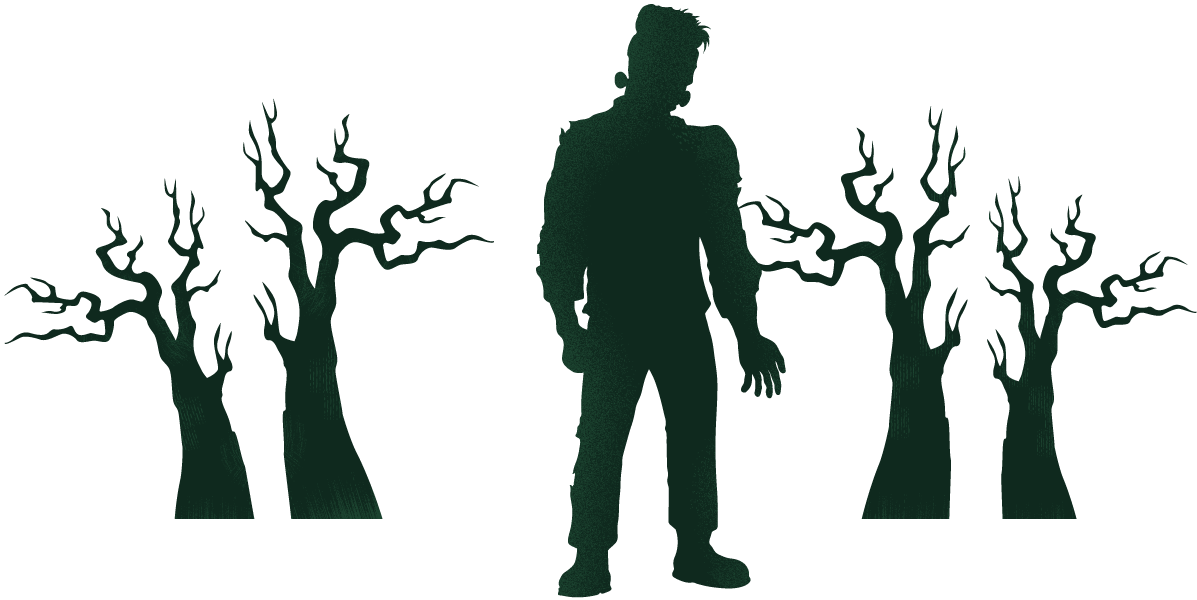
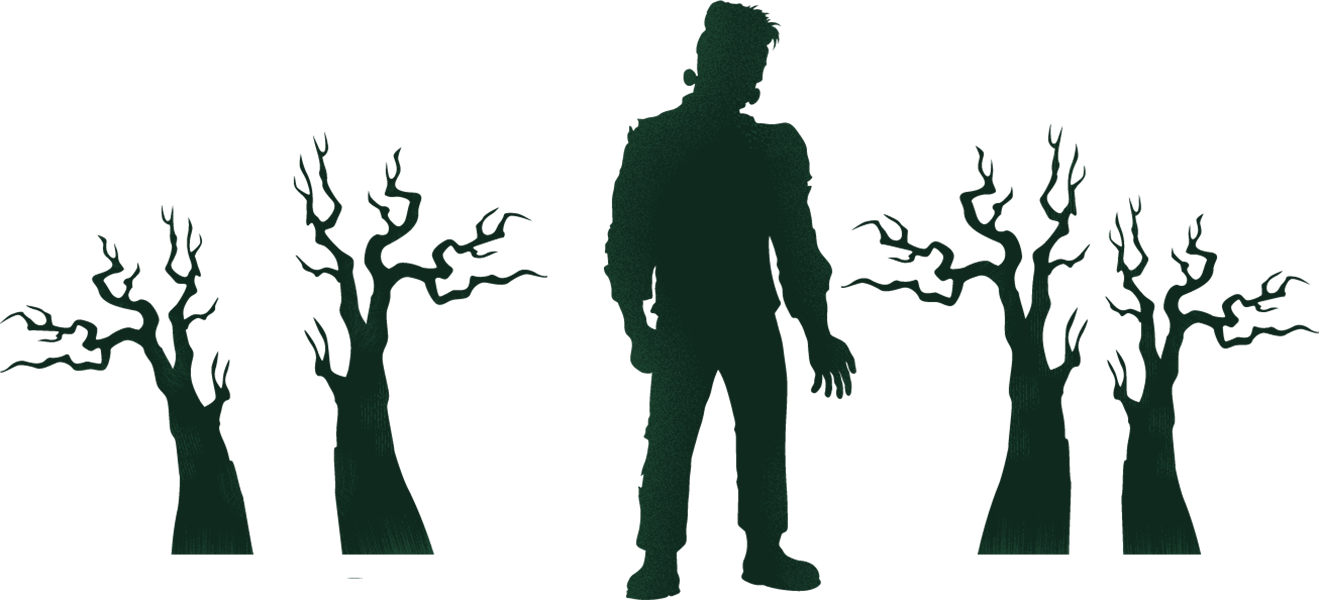
different texture

diff --git a/storybook-holiday/new.html b/storybook-holiday/new.html
@@ -148,14 +148,18 @@ h1.block-font {
 	border-bottom: 45px solid #0d8a7d;
 }
 .dark-row {
-	background: #010c0b url("dark-noise.png");
-	height: 95px;
+	background: #010c0b url("light-noise.png");
+	height: 200px;
 }
 .monster-row {
 	background: transparent url("monster.png") bottom center no-repeat;
-	height: 775px;
+	height: 740px;
 	position: relative;
 }
+	.bg-row {
+		background: #010a09;
+		height: 15px;
+	}
 .bottom-row {
     background: #754d29 url("bottom.jpg") top center repeat-x;
     padding: 35px 0 55px;
@@ -381,7 +385,7 @@ height="0" width="0" style="display:none;visibility:hidden"></iframe>
       <div class="script-heading-one">a storybook holiday</div>
       <h1 class="block-font">Frankenstein's</h1>
       <div><span class="block-font date">October 24</span><span class="script-heading-two">castle</span><span class="block-font date">3-8:30PM</span></div>
-      <div class="tree-row"><div class="monster-row"></div></div><div class="dark-row"></div>
+		<div class="tree-row"><div class="monster-row"></div></div><div class="dark-row"></div>
     </div>
   </div>
   <div class="row bottom-row">
